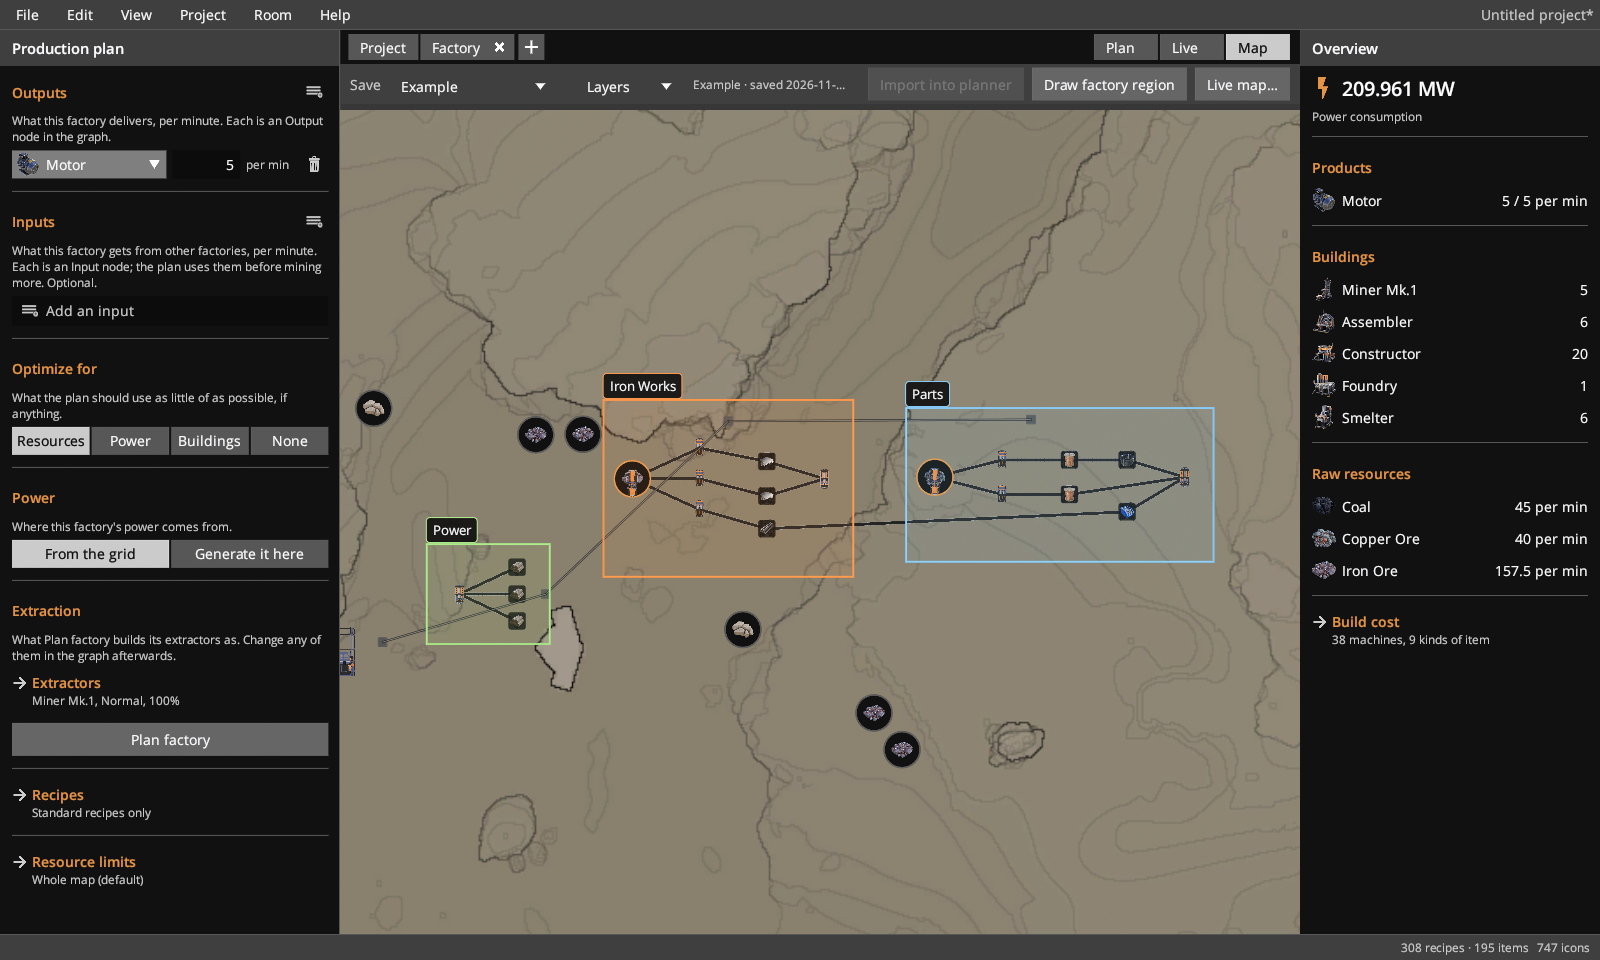
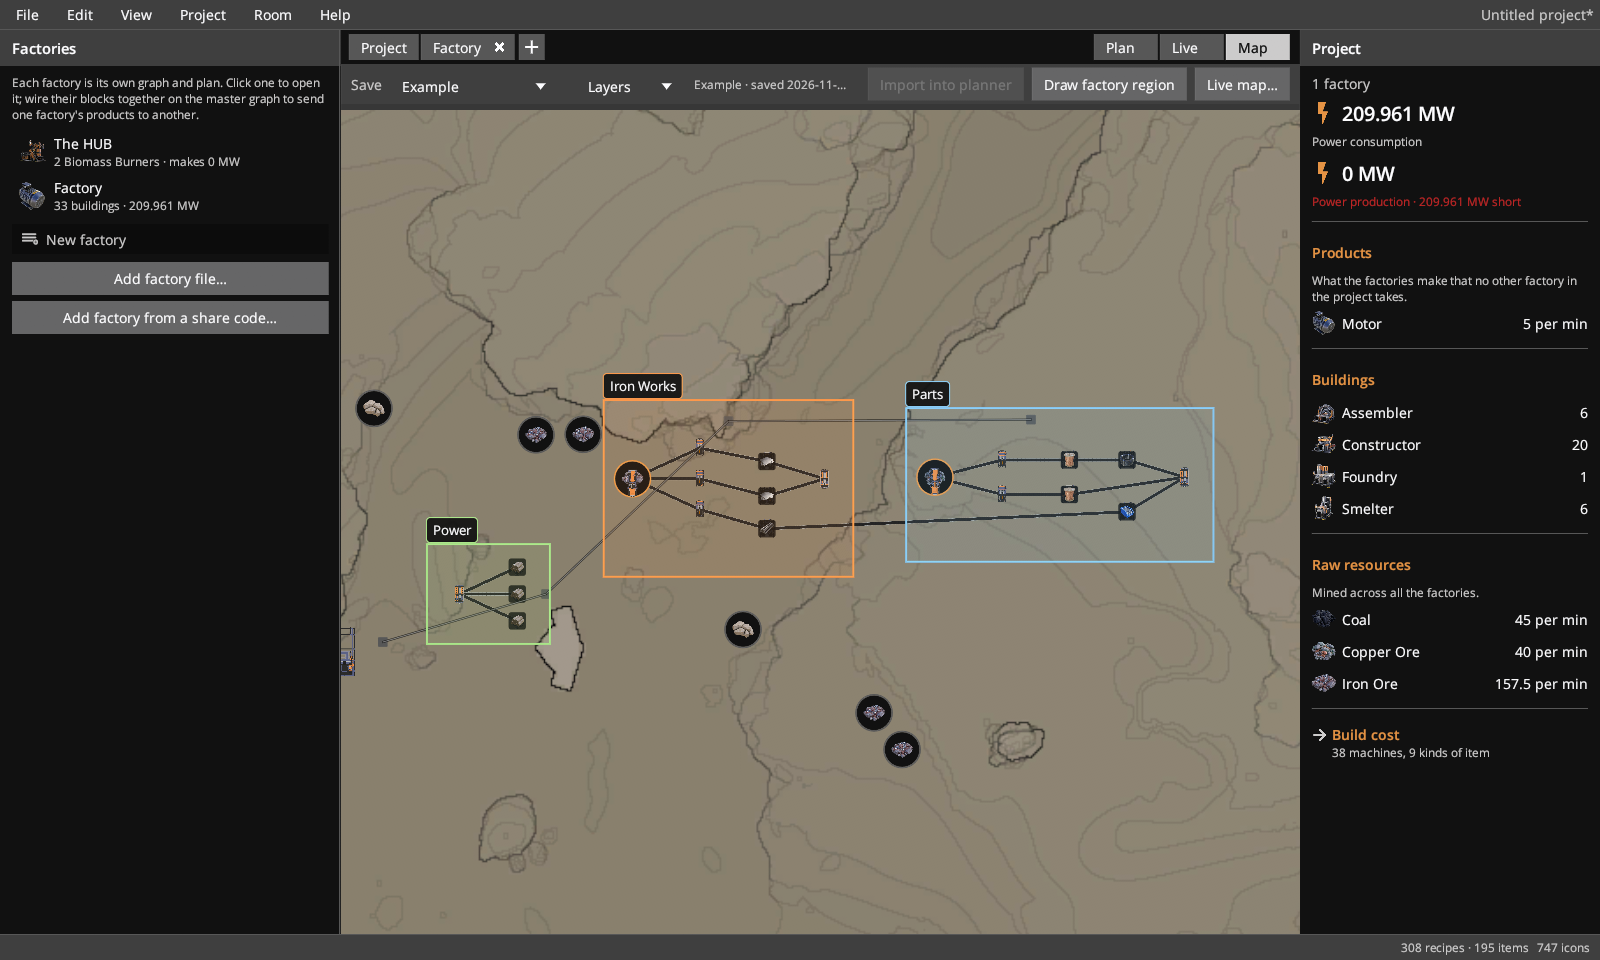
Retake every README screenshot with the current build
The self-test now shoots the Live view scenes after the hover tips, and the map scenes turn the Live map add-on off in memory, so the older shots show the planner as it is today.

diff --git a/src-tauri/src/selftest.rs b/src-tauri/src/selftest.rs
@@ -45,7 +45,7 @@ const PROBE_JS: &str = r#"
   // then read the canvas in a later animation frame (before it clears).
   const sleep = (ms) => new Promise((res) => setTimeout(res, ms));
   r.screenshots = [];
-  for (const view of ['graph', 'zoomed', 'finder', 'finder_search', 'finder_wire', 'menu', 'room_cursors', 'room_info', 'setup_install', 'setup_game', 'setup_icons', 'setup_name', 'settings_dev', 'map', 'map_zoom', 'map_close', 'map_import', 'export', 'frames', 'project', 'project_menu', 'tab_menu', 'project_tab', 'world_dialog', 'world_project', 'readme_world', 'power_lit', 'power_close', 'routers', 'hub', 'hub_master', 'readme_prep', 'readme_plan', 'readme_room', 'readme_nodes', 'readme_wire', 'live_map', 'live_dialog', 'readme_live_map', 'live_map_selected', 'readme_live_master', 'readme_live_factory']) {
+  const shoot = async (view) => {
     try {
       window.__fbSelftestView = view;
       for (let i = 0; i < 6; i++) {
@@ -63,6 +63,9 @@ const PROBE_JS: &str = r#"
       await inv('selftest_screenshot', { dataUrl: png, name: view });
       r.screenshots.push(view);
     } catch (e) { r.screenshot_err = String(e); }
+  };
+  for (const view of ['graph', 'zoomed', 'finder', 'finder_search', 'finder_wire', 'menu', 'room_cursors', 'room_info', 'setup_install', 'setup_game', 'setup_icons', 'setup_name', 'settings_dev', 'map', 'map_zoom', 'map_close', 'map_import', 'export', 'frames', 'project', 'project_menu', 'tab_menu', 'project_tab', 'world_dialog', 'world_project', 'readme_world', 'power_lit', 'power_close', 'routers', 'hub', 'hub_master', 'readme_prep', 'readme_plan', 'readme_room', 'readme_nodes', 'readme_wire', 'live_map', 'live_dialog']) {
+    await shoot(view);
   }
   await sleep(3000);
   // Hover tips: put the pointer on something, wait past the tooltip delay,
@@ -93,6 +96,11 @@ const PROBE_JS: &str = r#"
       await inv('selftest_screenshot', { dataUrl: png, name });
       r.screenshots.push(name);
     } catch (e) { r.screenshot_err = String(e); }
+  }
+  // Last: the Live view's scenes put a generated example world on the map
+  // (demo.rs), which the views and tips above don't expect.
+  for (const view of ['readme_live_map', 'live_map_selected', 'readme_live_master', 'readme_live_factory']) {
+    await shoot(view);
   }
   r.errors = window.__fbErrors;
   await inv('selftest_report', { report: JSON.stringify(r) });

diff --git a/crates/fb-ui/src/app.rs b/crates/fb-ui/src/app.rs
@@ -1461,6 +1461,11 @@ impl FactoryApp {
                 // The Map tab with the self-test's sample save.
                 "map" | "map_zoom" | "map_close" => {
                     self.dialog = Dialog::None;
+                    // The plain map: no Live map add-on (live_map turns it on).
+                    self.leave_live();
+                    if let Some(s) = self.status.as_mut() {
+                        s.settings.live.enabled = false;
+                    }
                     self.view = crate::map::View::Map;
                     if self.map.world.is_none() {
                         self.backend.call("selftest_save", json!({}), Msg::SelftestSave);
